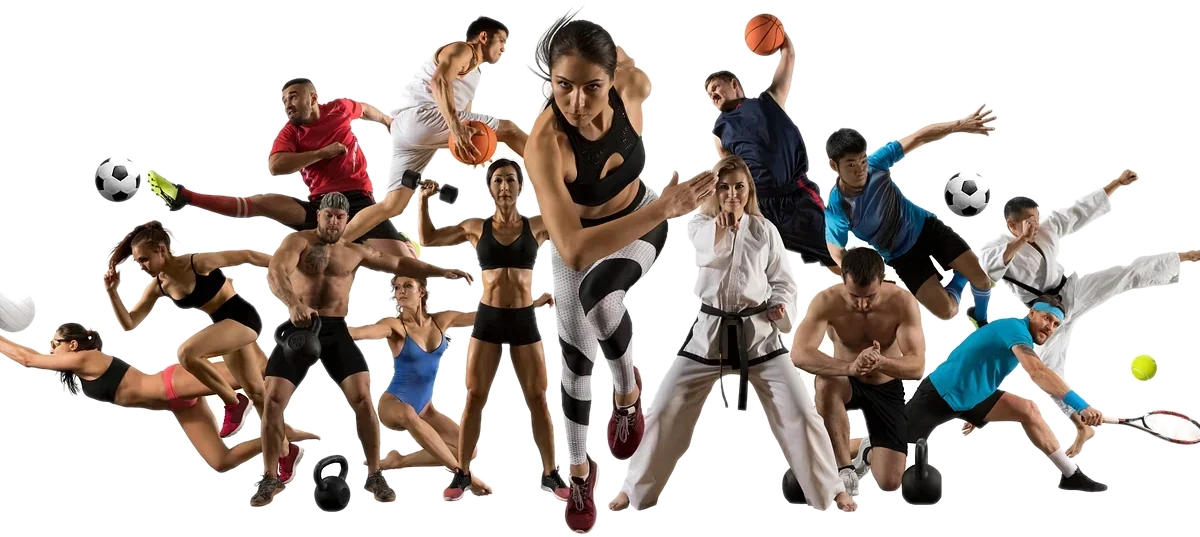
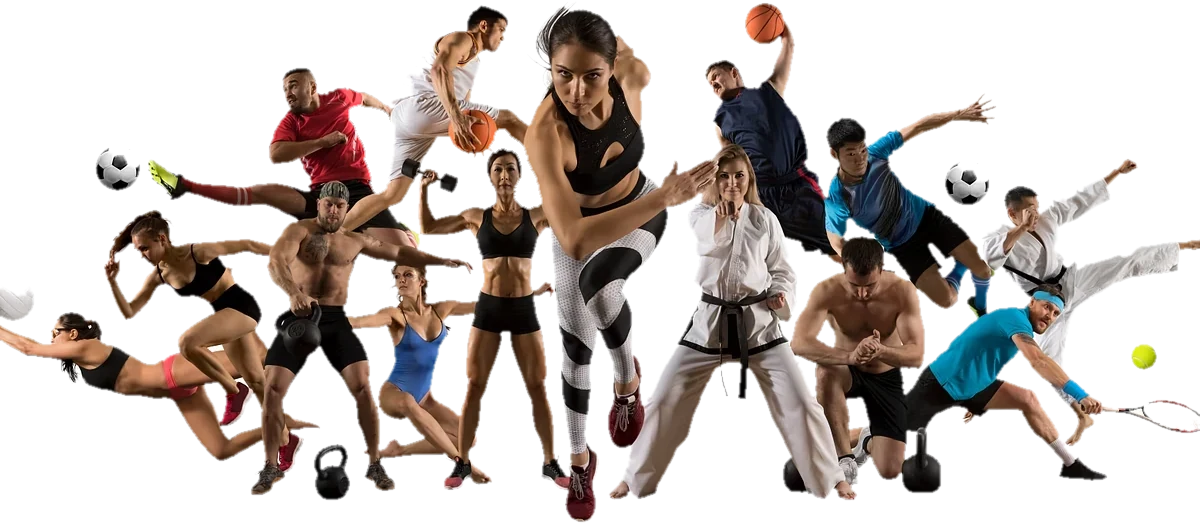
v205: Renere utklipp av sportsbildet og hele motivet synlig i flisen
Claude-Session: https://claude.ai/code/session_01PDMwWznGtKua64n8Lxyvjd

diff --git a/index.html b/index.html
@@ -2,7 +2,7 @@
 <html lang="no" data-theme="brann">
 <head>
 <meta charset="utf-8">
-<script>/*BOOT*/var APP_BUILD=204;(function(){try{var n=window.IPTV_DESKTOP||(window.Capacitor&&Capacitor.isNativePlatform&&Capacitor.isNativePlatform());if(!n||window.__booted)return;var h=localStorage.getItem('remote_html'),v=+localStorage.getItem('remote_ver')||0,t=+localStorage.getItem('boot_try')||0;if(h&&v>APP_BUILD){if(t>=2){localStorage.removeItem('remote_html');localStorage.removeItem('remote_ver');localStorage.setItem('boot_try','0');return}localStorage.setItem('boot_try',String(t+1));window.__booted=1;window.__RP=1;setTimeout(function(){window.__RP=0;document.open();document.write(h);document.close()},0)}}catch(e){}})();</script>
+<script>/*BOOT*/var APP_BUILD=205;(function(){try{var n=window.IPTV_DESKTOP||(window.Capacitor&&Capacitor.isNativePlatform&&Capacitor.isNativePlatform());if(!n||window.__booted)return;var h=localStorage.getItem('remote_html'),v=+localStorage.getItem('remote_ver')||0,t=+localStorage.getItem('boot_try')||0;if(h&&v>APP_BUILD){if(t>=2){localStorage.removeItem('remote_html');localStorage.removeItem('remote_ver');localStorage.setItem('boot_try','0');return}localStorage.setItem('boot_try',String(t+1));window.__booted=1;window.__RP=1;setTimeout(function(){window.__RP=0;document.open();document.write(h);document.close()},0)}}catch(e){}})();</script>
 <script>/*LIBS*/(function(){function L(a,b){return new Promise(function(r){var s=document.createElement('script');s.async=true;s.src=a;s.onload=function(){r(1)};s.onerror=function(){if(!b)return r(0);var t=document.createElement('script');t.async=true;t.src=b;t.onload=function(){r(1)};t.onerror=function(){r(0)};document.head.appendChild(t)};document.head.appendChild(s)})}
 window.__libs=Promise.race([Promise.all([L('lib/hls.min.js','https://cdn.jsdelivr.net/npm/hls.js@1/dist/hls.min.js'),L('lib/mpegts.js','https://cdn.jsdelivr.net/npm/mpegts.js@1/dist/mpegts.min.js')]),new Promise(function(r){setTimeout(r,9000)})]).then(function(){window.__libsDone=1})})();</script>
 <meta name="viewport" content="width=device-width, initial-scale=1, viewport-fit=cover">
@@ -1665,8 +1665,8 @@ body.tv .tvr:focus,html.tvm .tvr:focus{transform:none!important;outline:none!imp
 /* v204: sportsbilde */
 .uvspx{position:absolute;inset:0;overflow:hidden}
 .uvspx-bg{position:absolute;inset:0;background:radial-gradient(60% 70% at 50% 55%,rgba(255,255,255,.22),rgba(120,140,255,.10) 45%,transparent 75%),radial-gradient(40% 50% at 20% 20%,rgba(255,80,80,.18),transparent 70%),radial-gradient(40% 50% at 85% 25%,rgba(40,200,255,.18),transparent 70%),linear-gradient(180deg,#141a3a,#0a0d20)}
-.uvspx-img{position:absolute;left:-2%;right:-2%;top:6%;bottom:-2%;background:center 60%/contain no-repeat;filter:drop-shadow(0 10px 18px rgba(0,0,0,.6));animation:uvspx 18s ease-in-out infinite alternate;transform-origin:50% 60%}
-@keyframes uvspx{0%{transform:scale(1.02)}100%{transform:scale(1.12) translateY(-2%)}}
+.uvspx-img{position:absolute;left:2%;right:2%;top:5%;bottom:2%;background:center/contain no-repeat;filter:drop-shadow(0 10px 18px rgba(0,0,0,.6));animation:uvspx 18s ease-in-out infinite alternate;transform-origin:50% 60%}
+@keyframes uvspx{0%{transform:scale(1)}100%{transform:scale(1.06) translateY(-1%)}}
 .uvt.play .uvspx{opacity:0;transition:opacity .9s}
 /* v195: én kanalliste under avspilling */
 #tvMenu{display:none!important}

diff --git a/sw.js b/sw.js
@@ -1,4 +1,4 @@
-const CACHE='min-iptv-v204';
+const CACHE='min-iptv-v205';
 const SHELL=['./','index.html','manifest.webmanifest','icon.svg','icon-192.png','icon-512.png'];
 self.addEventListener('install',e=>{e.waitUntil(caches.open(CACHE).then(c=>c.addAll(SHELL).catch(()=>{})).then(()=>self.skipWaiting()))});
 self.addEventListener('activate',e=>{e.waitUntil(caches.keys().then(ks=>Promise.all(ks.filter(k=>k!==CACHE).map(k=>caches.delete(k)))).then(()=>self.clients.claim()))});
